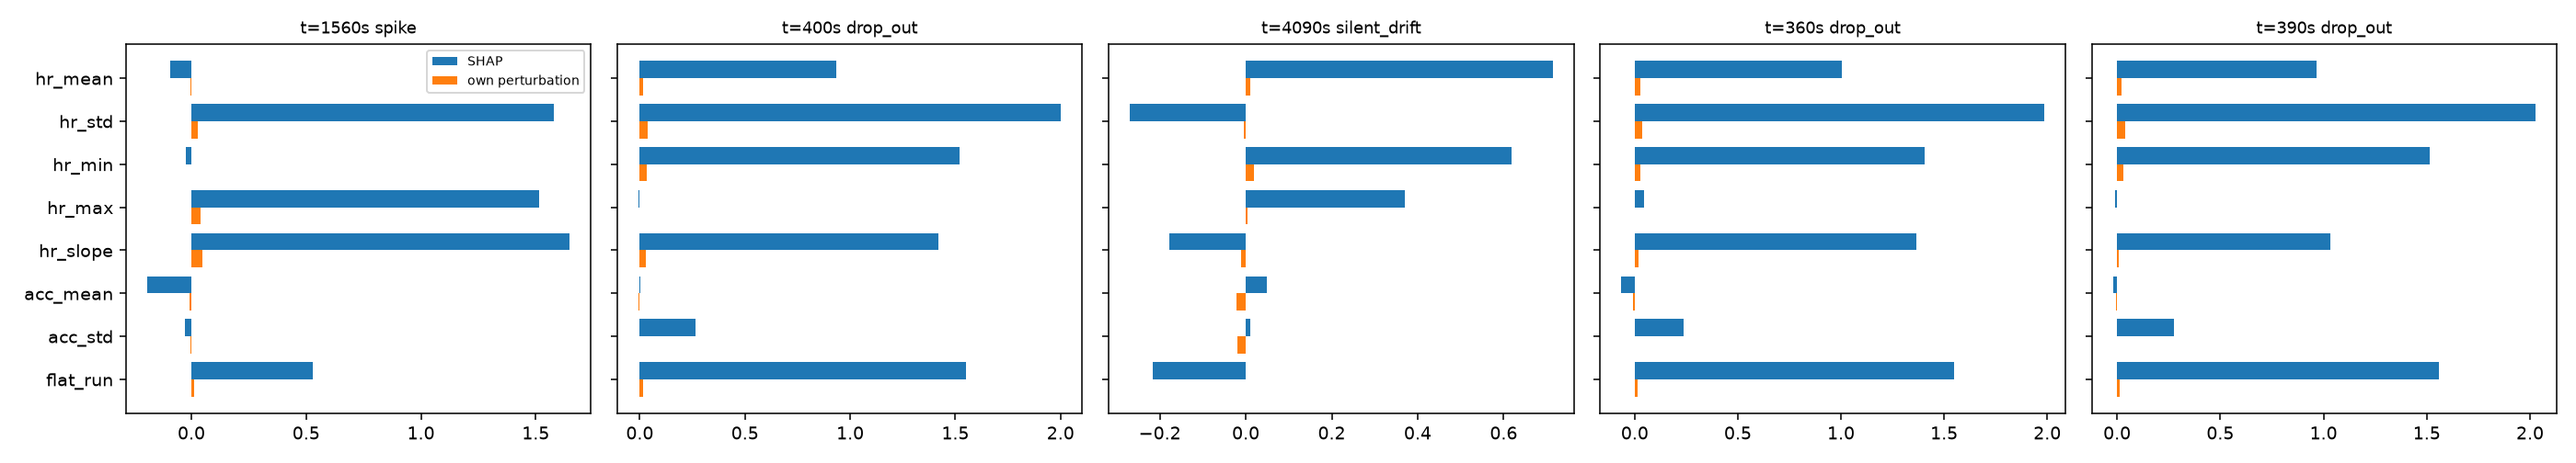
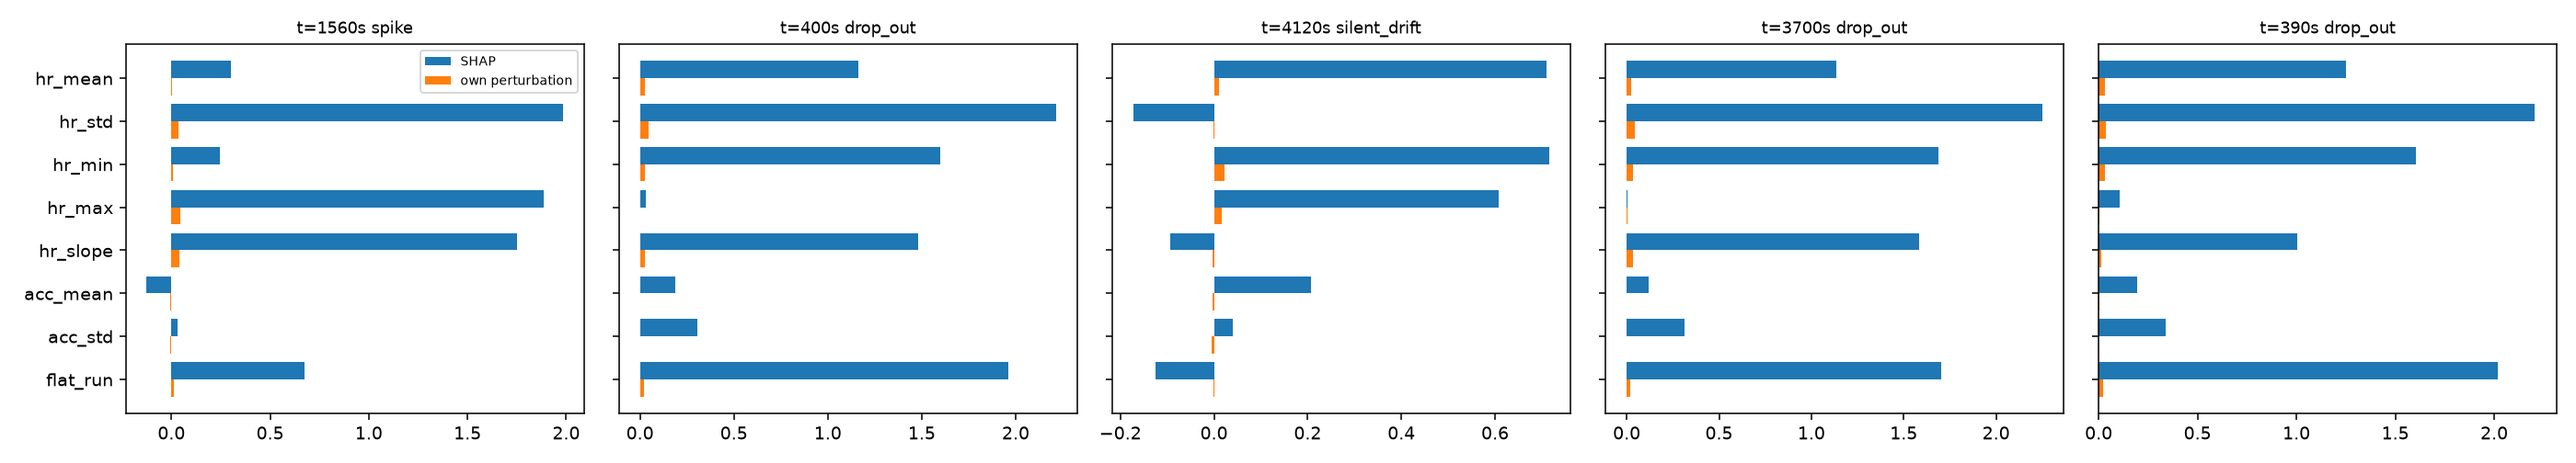
Run pre-registered experiments and add results

diff --git a/question_b/explain.py b/question_b/explain.py
@@ -22,7 +22,7 @@ df = load()
 hr, acc, atype = df.hr.to_numpy(), df.acc.to_numpy(), df.anomaly_type.to_numpy()
 
 # ---------------- window features: 60 s windows, new window every 10 s ----------------
-WIN, STEP = 60, 10
+WIN, STEP = 30, 10
 FEATS = ["hr_mean", "hr_std", "hr_min", "hr_max", "hr_slope", "acc_mean", "acc_std", "flat_run"]
 PLAIN = {"hr_mean": "average heart rate", "hr_std": "heart-rate variability", "hr_min": "lowest heart rate",
          "hr_max": "highest heart rate", "hr_slope": "heart-rate trend", "acc_mean": "movement",

diff --git a/question_d/alert_logic.py b/question_d/alert_logic.py
@@ -18,7 +18,7 @@ STILL = 0.3          # acc below this = person is still (walking is 0.8 - 2.5)
 
 
 class AlertEngine:
-    def __init__(self, jump=30.0, flat_n=3, drift_rise=8.0, drift_span=300,
+    def __init__(self, jump=30.0, flat_n=3, drift_rise=5.0, drift_span=300,
                  cooldown=None):
         self.jump, self.flat_n = jump, flat_n
         self.drift_rise, self.drift_span = drift_rise, drift_span

diff --git a/question_a/detect.py b/question_a/detect.py
@@ -104,7 +104,7 @@ def rolling_z(x, w):
     return z
 
 
-def zdet(w, gate=True, thr=3.5):
+def zdet(w, gate=True, thr=2.5):
     p = np.abs(rolling_z(hr, w)) > thr
     if gate:
         p &= acc < 0.3                                # moving => walking => normal
